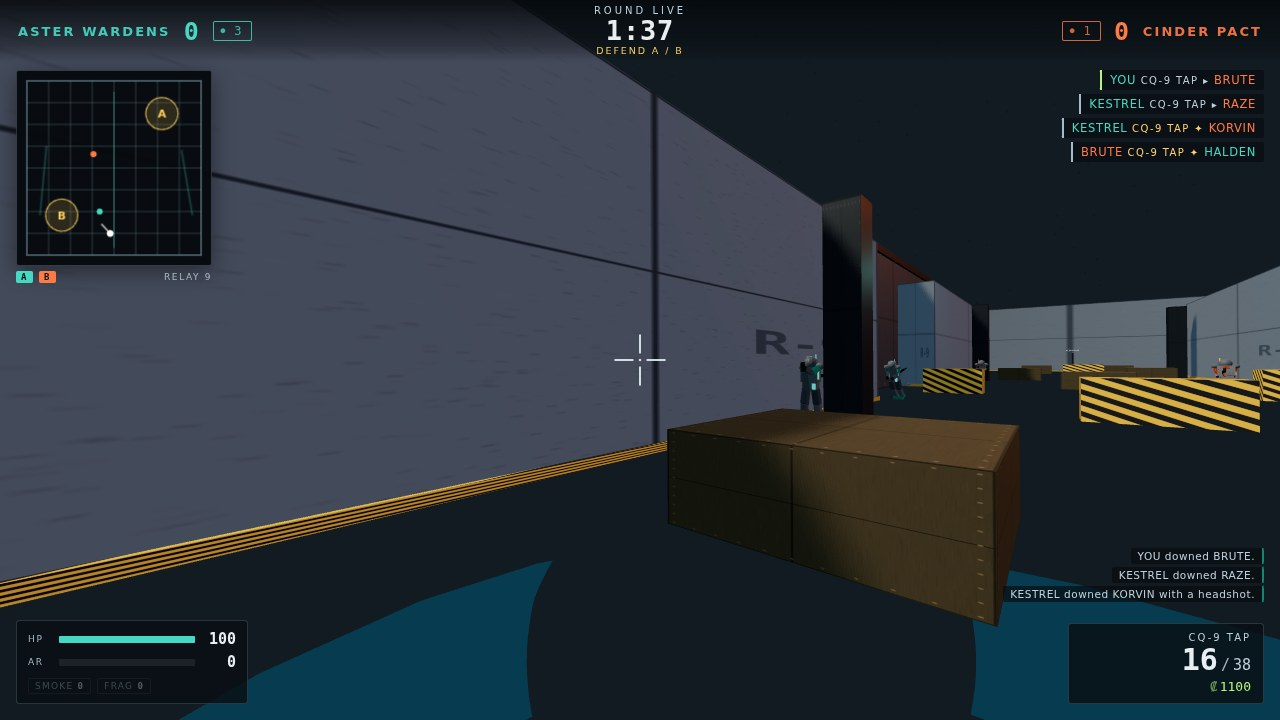
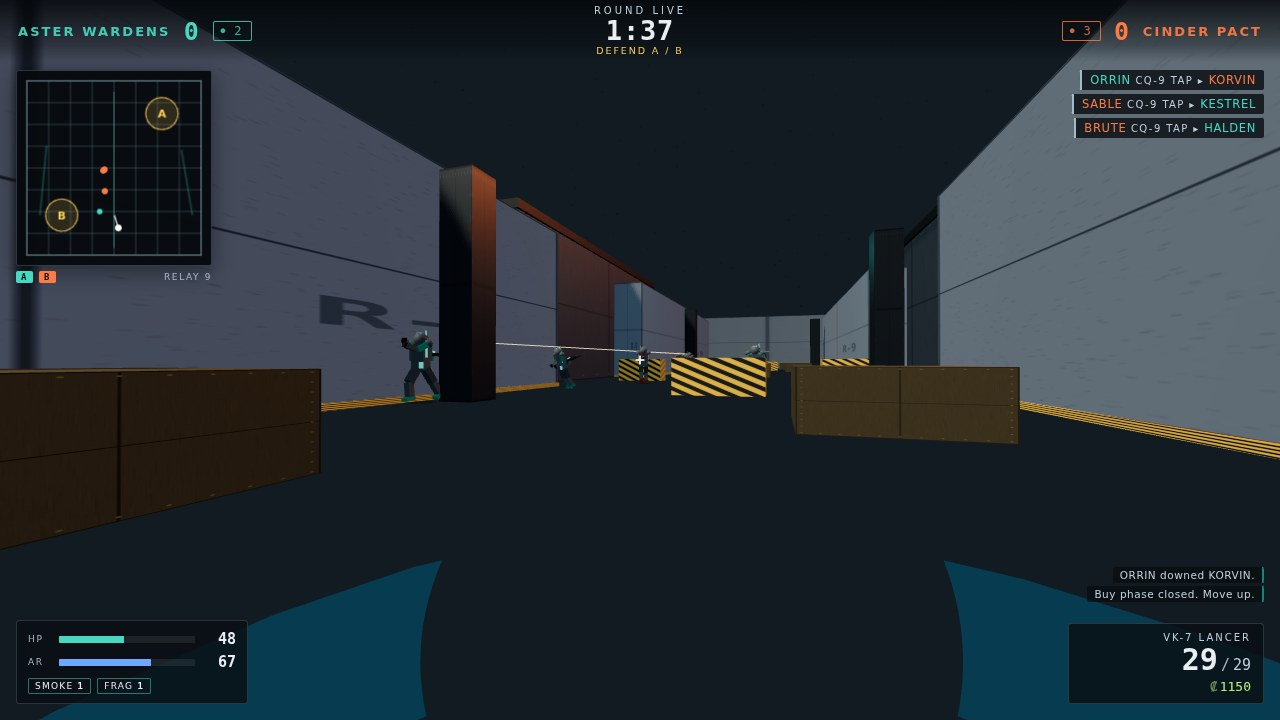
Showcase shot staging: per-mode vantage points, demo loadout buys, rifle reload in demo

diff --git a/game/src/main.js b/game/src/main.js
@@ -1,5 +1,5 @@
 import { Scene, PerspectiveCamera, WebGLRenderer, Vector3, PointLight, SphereGeometry, MeshBasicMaterial, Mesh, Sprite, SpriteMaterial, AdditiveBlending, BufferGeometry, BufferAttribute, LineSegments, LineBasicMaterial, CanvasTexture, PCFShadowMap, SRGBColorSpace, ACESFilmicToneMapping } from "three";
-import { TICK, MAX_STEPS, TEAM, WEAPONS, MOVE, MATCH, SITES, SHOTS, DEMO, KEYS } from "./config.js";
+import { TICK, MAX_STEPS, TEAM, WEAPONS, MOVE, MATCH, SITES, SHOTS, SHOT_SPOTS, DEMO, KEYS } from "./config.js";
 import { Match } from "./sim.js";
 import { World } from "./world.js";
 import { FighterModel, ViewModel } from "./model.js";
@@ -11,7 +11,7 @@ const DEMO_MODE = params.get("demo") === "1";
 const AUTOSTART = DEMO_MODE || params.get("autostart") === "1";
 const SEED = Number(params.get("seed") ?? DEMO.seed) || DEMO.seed;
 const SHOT = params.get("shot");
-const SHOT_SPEC = SHOT !== null && Object.hasOwn(SHOTS, SHOT) ? SHOTS[SHOT] : null;
+const SHOT_SPEC = SHOT !== null && Object.hasOwn(SHOTS, SHOT) ? { ...SHOTS[SHOT], simSeconds: Number(params.get("t") ?? SHOTS[SHOT].simSeconds) } : null;
 const canvas = document.getElementById("view");
 const renderer = new WebGLRenderer({ canvas: canvas, antialias: true, powerPreference: "high-performance", stencil: false });
 renderer.setPixelRatio(Math.min(window.devicePixelRatio || 1, 1.5));
@@ -52,6 +52,7 @@ const engine = {
 let running = false;
 const match = () => engine.match;
 engine.match = new Match({ seed: SEED, demo: DEMO_MODE });
+seedDemoState(engine.match);
 const $ = id => document.getElementById(id);
 const hud = {
  wardenScore: $("score-warden"),
@@ -667,6 +668,8 @@ function updateBodies(dt) {
  }
 }
 let demoTarget = 0;
+let demoBought = false;
+let demoPlaced = false;
 function nearestEnemy(p) {
  let best = null;
  let bestD = 1 / 0;
@@ -686,11 +689,40 @@ const wrapPi = a => {
  while (d < -Math.PI) d += Math.PI * 2;
  return d;
 };
+function seedDemoState(m) {
+ if (!DEMO_MODE) return;
+ m.player.money = 4500;
+}
+function placeDemoPlayer(p) {
+ const num = (key, fallback) => {
+  const v = Number(params.get(key));
+  return Number.isFinite(v) && params.get(key) !== null ? v : fallback;
+ };
+ const spot = SHOT_SPOTS[SHOT_SPEC.mode] ?? [ 0, 33, 0, 12 ];
+ const px = num("px", spot[0]), pz = num("pz", spot[1]);
+ const tx = num("tx", spot[2]), tz = num("tz", spot[3]);
+ p.pos = { x: px, y: 0, z: pz };
+ p.vel = { x: 0, y: 0, z: 0 };
+ p.yaw = Math.atan2(-(tx - px), -(tz - pz));
+ p.pitch = num("pitch", 0);
+}
 function demoDrive() {
  const m = match();
  const p = m.player;
  input.fire=false; input.fireHeld=false;
- if(m.phase==='buy') { input.forward=false; return; }
+ if (DEMO_MODE && p.ammo[p.weapon] === 0 && !p.reloading) pendingReload = true;
+ if(m.phase==='buy') {
+  input.forward=false;
+  if (DEMO_MODE && !demoBought) {
+   demoBought = true;
+   for (const item of DEMO.buyList) m.buy(p, item);
+  }
+  return;
+ }
+ if (SHOT_SPEC !== null && SHOT_SPEC.mode !== "buy" && !demoPlaced) {
+  demoPlaced = true;
+  placeDemoPlayer(p);
+ }
  if (!p.alive) {
   input.fire = false;
   input.forward = false;
@@ -708,7 +740,7 @@ function demoDrive() {
   if(p.ammo[p.weapon]===0)pendingReload=true;
   return;
  }
- const path = DEMO.waypoints;
+ const path = SHOT_SPEC !== null ? [] : DEMO.waypoints;
  while (demoTarget < path.length) {
   const [tx, tz] = path[demoTarget];
   if (Math.hypot(p.pos.x - tx, p.pos.z - tz) < 2.4) demoTarget++; else break;
@@ -725,6 +757,19 @@ function demoDrive() {
   return;
  }
  input.forward = false;
+ if (SHOT_SPEC !== null && SHOT_SPEC.mode === "site") {
+  const c = SITES.B.center;
+  const sx = c[0] - p.pos.x, sz = c[2] - p.pos.z;
+  const sd = Math.hypot(sx, sz);
+  const yaw = Math.atan2(-sx, -sz);
+  const pitch = Math.atan2(0.9 - (p.pos.y + MOVE.eyeStand - p.crouch * 0.42), sd);
+  input.crouch = true;
+  input.fire = false;
+  input.use = true;
+  input.mouseDX = 300 * -wrapPi(yaw - p.yaw);
+  input.mouseDY = 300 * -wrapPi(pitch - p.pitch);
+  return;
+ }
  const enemy = nearestEnemy(p);
  if (enemy === null) {
   input.fire = false;
@@ -784,8 +829,11 @@ function rebuildBodies() {
 }
 function restart() {
  engine.match = new Match({ seed: SEED, demo: DEMO_MODE });
+ seedDemoState(engine.match);
  engine.match.onEvent = onEvent;
  demoTarget = 0;
+ demoBought = false;
+ demoPlaced = false;
  engine.accumulator = 0;
  engine.shotFrozen = false;
  engine.shakeT = 0;
@@ -929,6 +977,11 @@ function freezeForCapture() {
    aliveWarden: m.aliveCount(TEAM.WARDEN),
    aliveCinder: m.aliveCount(TEAM.CINDER),
    beaconPlanted: m.beacon.planted,
+   pos: { x: Number(m.player.pos.x.toFixed(2)), y: Number(m.player.pos.y.toFixed(2)), z: Number(m.player.pos.z.toFixed(2)) },
+   yaw: Number(m.player.yaw.toFixed(3)),
+   pitch: Number(m.player.pitch.toFixed(3)),
+   demoTarget: demoTarget,
+   siteDist: Number(Math.hypot(SITES.B.center[0] - m.player.pos.x, SITES.B.center[2] - m.player.pos.z).toFixed(2)),
    pixel: readCentre(),
    calls: renderer.info.render.calls,
    triangles: renderer.info.render.triangles

diff --git a/game/src/config.js b/game/src/config.js
@@ -198,10 +198,10 @@ export const BOT = {
 export const SHOTS = {
  buy: { simSeconds: 4.2, mode: "buy" },
  combat: { simSeconds: 23.5, mode: "combat" },
- site: { simSeconds: 47.5, mode: "site" },
- hud: { simSeconds: 61.0, mode: "hud" }
+ site: { simSeconds: 30.0, mode: "site" }
 };
-export const DEMO = { seed: 1337, waypoints: [ [ 0, 36 ], [ -4.6, 33 ], [ 4.4, 28 ], [ 0, 24 ], [ -3.4, 20 ], [ 3.2, 16 ], [ 0, 11 ], [ -8.4, 10 ], [ -16, 4 ], [ -31, 6 ], [ -36, 12 ], [ -30, 18 ], [ -26, 24 ] ] };
+export const SHOT_SPOTS = { combat: [ 2, 33, 0, 12 ], site: [ -26, 31, -8, 18 ] };
+export const DEMO = { seed: 1337, waypoints: [ [ 0, 36 ], [ -4.6, 33 ], [ 4.4, 28 ], [ 0, 24 ], [ -3.4, 20 ], [ 3.2, 16 ], [ 0, 11 ], [ -8.4, 10 ], [ -16, 4 ], [ -31, 6 ], [ -36, 12 ], [ -30, 18 ], [ -26, 24 ] ], buyList: [ "kevlar", "rifle", "frag", "smoke" ] };
 export const KEYS = {
  forward: [ "KeyW", "ArrowUp" ],
  back: [ "KeyS", "ArrowDown" ],
